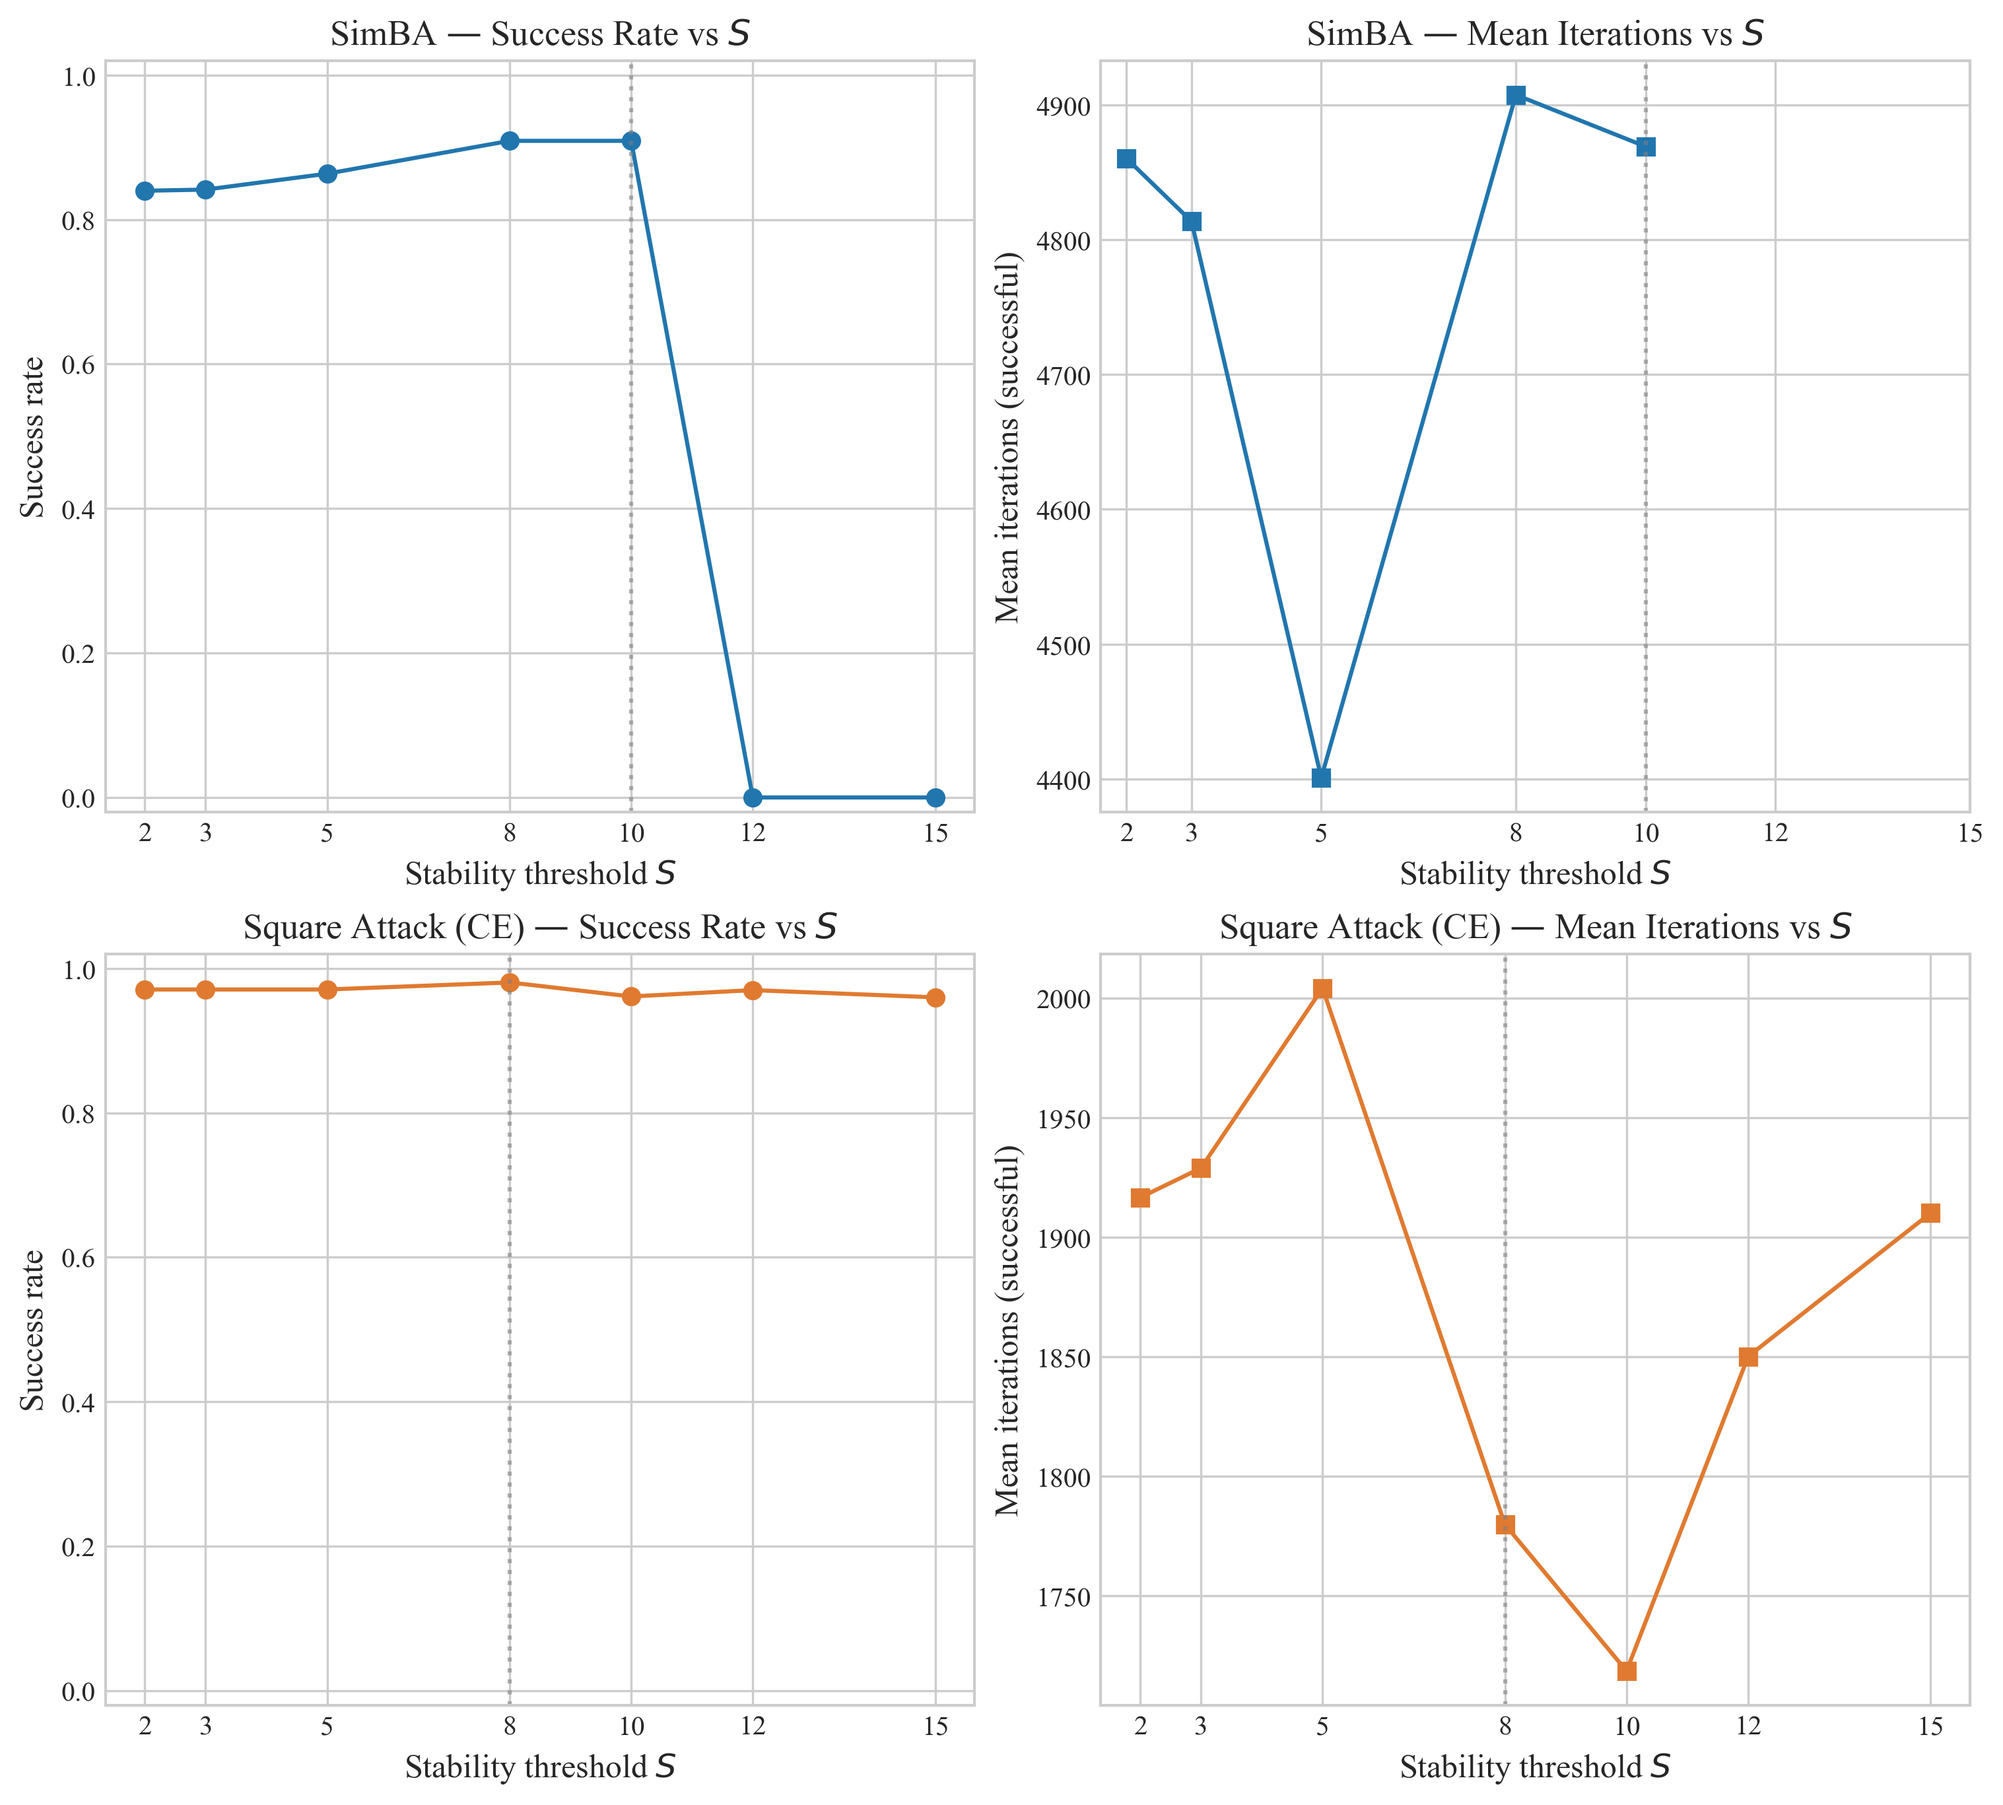
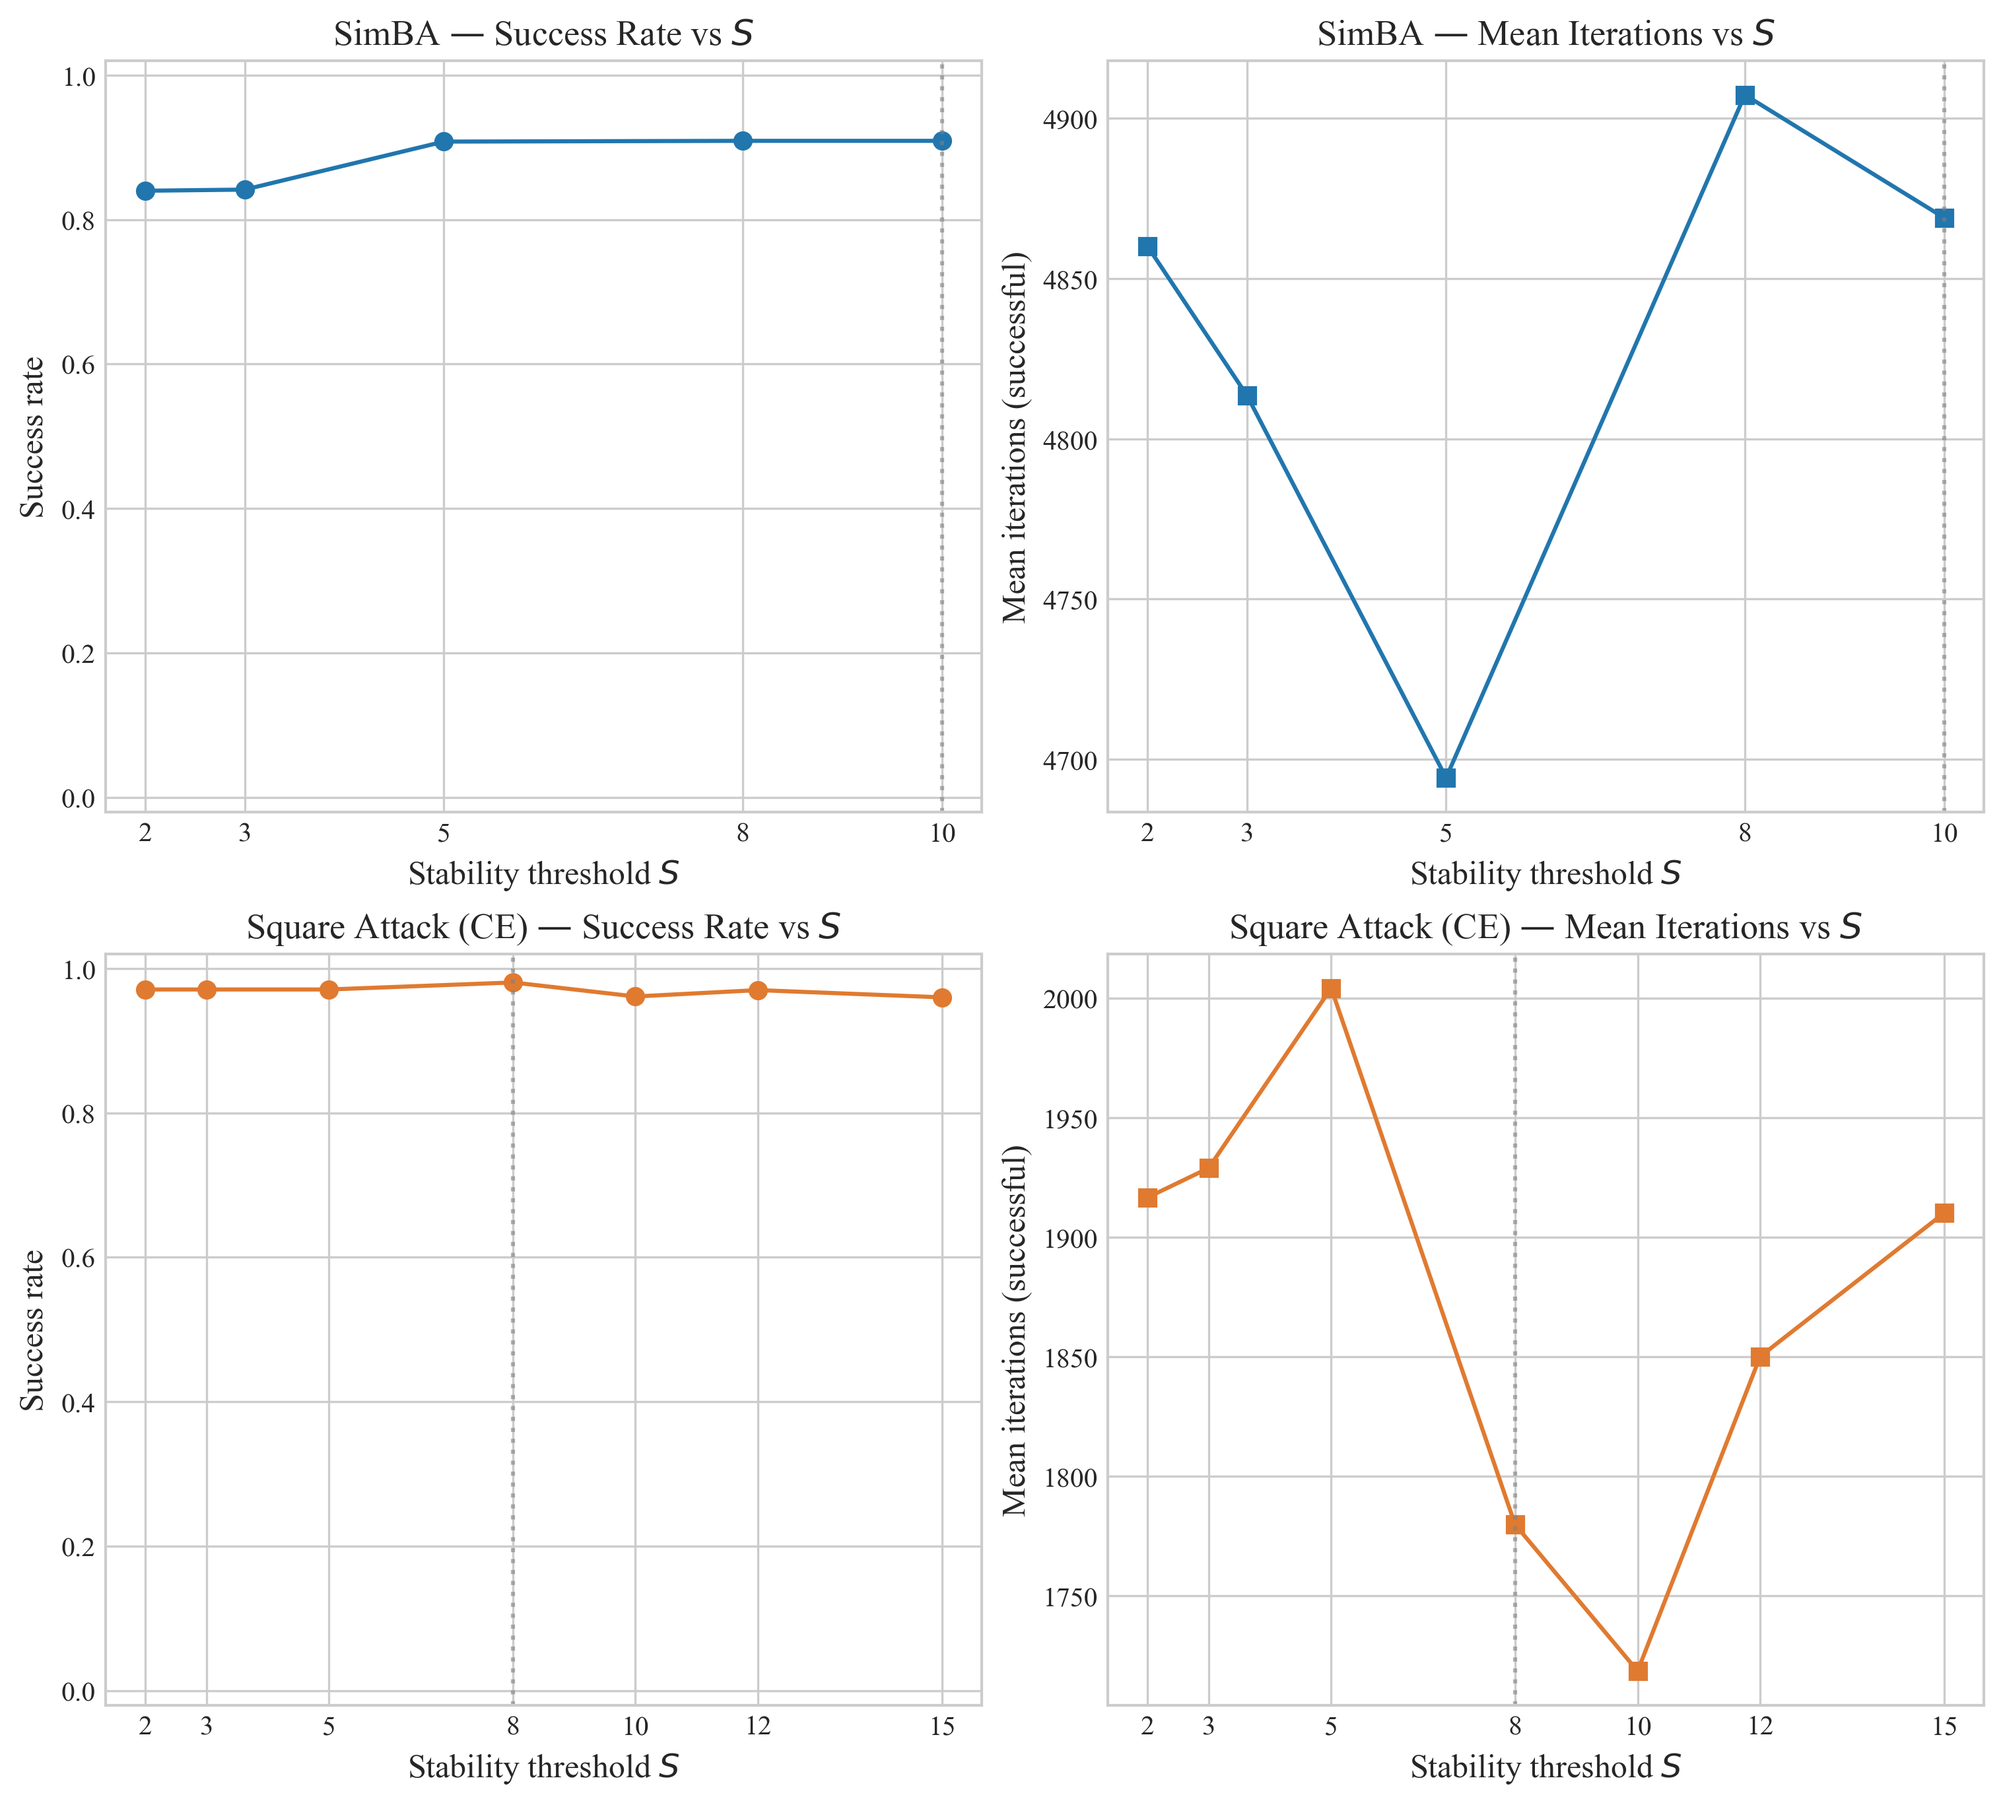
fix: use per-method S values in ablation plots
S values differ between methods (SimBA stops at 10, SquareAttack goes
to 15). Previously a global S list caused missing data on SimBA plots.

diff --git a/analyze_ablation_s.py b/analyze_ablation_s.py
@@ -128,22 +128,21 @@ def main():
     os.makedirs(args.outdir, exist_ok=True)
 
     methods = sorted(df["method"].unique())
-    s_values = sorted(df["s_value"].unique())
     n_methods = len(methods)
 
     print(f"Methods found: {methods}")
-    print(f"S values found: {s_values}")
 
-    # ---- Compute stats per method ----
-    stats = {}  # method -> (success_rates, mean_iters, best_s)
+    # ---- Compute stats per method (each may have different S values) ----
+    stats = {}  # method -> (s_values, success_rates, mean_iters, best_s)
     for method in methods:
         df_m = df[df["method"] == method]
+        s_values = sorted(df_m["s_value"].unique())
         sr, mi = _compute_stats(df_m, s_values)
         best_s = _find_best_s(s_values, sr, mi)
-        stats[method] = (sr, mi, best_s)
+        stats[method] = (s_values, sr, mi, best_s)
 
         label = METHOD_LABELS.get(method, method)
-        print(f"\n{label}:")
+        print(f"\n{label} (S values: {s_values}):")
         for i, s in enumerate(s_values):
             subset = df_m[df_m["s_value"] == s]
             n = len(subset)
@@ -159,7 +158,7 @@ def main():
                              squeeze=False)
 
     for row, method in enumerate(methods):
-        sr, mi, best_s = stats[method]
+        sv, sr, mi, best_s = stats[method]
         color = METHOD_COLORS.get(method, "#6BA353")
         label = METHOD_LABELS.get(method, method)
 
@@ -167,22 +166,22 @@ def main():
         ax_mi = axes[row, 1]
 
         # Success rate
-        ax_sr.plot(s_values, sr, 'o-', color=color, linewidth=1.5,
+        ax_sr.plot(sv, sr, 'o-', color=color, linewidth=1.5,
                    markersize=6)
         ax_sr.axvline(best_s, color='gray', linestyle=':', alpha=0.6)
         ax_sr.set_xlabel("Stability threshold $S$")
         ax_sr.set_ylabel("Success rate")
-        ax_sr.set_xticks(s_values)
+        ax_sr.set_xticks(sv)
         ax_sr.set_ylim(-0.02, 1.02)
         ax_sr.set_title(f"{label} — Success Rate vs $S$")
 
         # Mean iterations
-        ax_mi.plot(s_values, mi, 's-', color=color, linewidth=1.5,
+        ax_mi.plot(sv, mi, 's-', color=color, linewidth=1.5,
                    markersize=6)
         ax_mi.axvline(best_s, color='gray', linestyle=':', alpha=0.6)
         ax_mi.set_xlabel("Stability threshold $S$")
         ax_mi.set_ylabel("Mean iterations (successful)")
-        ax_mi.set_xticks(s_values)
+        ax_mi.set_xticks(sv)
         ax_mi.set_title(f"{label} — Mean Iterations vs $S$")
 
     _savefig(fig, args.outdir, "fig_ablation_s")
